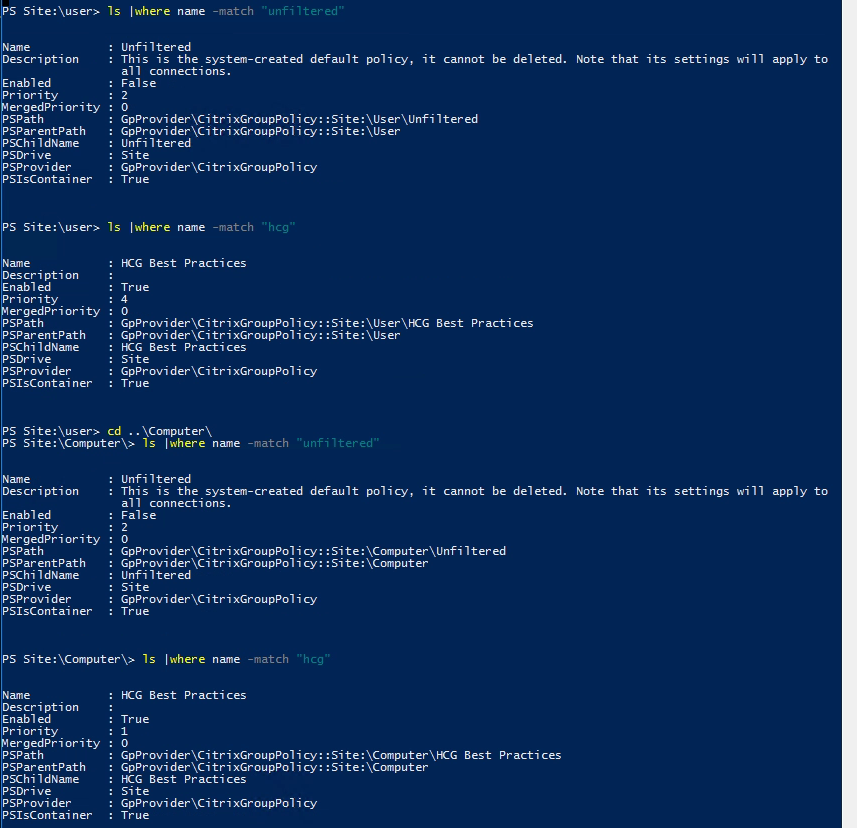
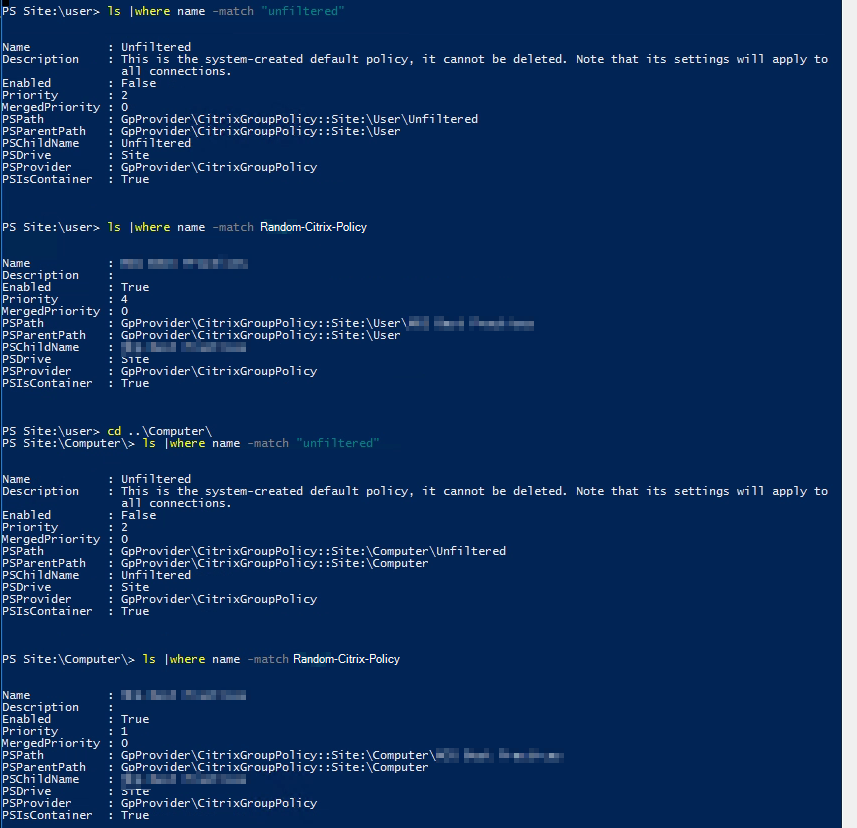
censored customer policy names

diff --git a/content/blog/2020/05/citrix-policy-migration.md b/content/blog/2020/05/citrix-policy-migration.md
@@ -118,8 +118,9 @@ foreach ($p in $userpolicies) {
 # Resolve Merge Discrepancies with Citrix Studio
 Citrix 7.xx Studio handles policy filtering in a different manner than 6.5. Separate user and computer policies no longer exist inside the GUI. Instead policies use filters that can be applied to users and computers. After an import, studio attempts to merge user policies with computer policies of the same name and applies filters for the various users and computers. Read more on this here https://support.citrix.com/article/CTX138509. 
 1.	Open Citrix studio and click on policies, If you added several policies, there is a good chance you will be presented with the below screen 
-    *	Note the name of the policy given in the error message. There is no priority interference with the “unfiltered” policy as indicated in the message. While this message is misleading, it does give us a valuable bit of information, the other policy mentioned is called “HCG Best Practices”. Make note of this policy name. 
+    *	Note the name of the policy given in the error message. There is no priority interference with the “unfiltered” policy as indicated in the message. While this message is misleading, it does give us a valuable bit of information, the other policy mentioned is called “Random-Citrix-Policy”. Make note of this policy name. 
     ![ctx_studio_error](/img/2020/05/ctx_studio_error.png)
+    * Please note: In these examples I am censoring the actual policy name, and using a made up name, 'Random-Citrix-Policy' for privacy. 
 
 2.	To resolve this. Return to your admin Powershell session and execute the below commands. Use the policy names from your environment in the 'where' filters. 
 
@@ -128,9 +129,9 @@ asnp Citrix*
 New-PSDrive Site -PSProvider CitrixGroupPolicy -Root \ -Controller localhost
 cd Site:\User
 ls  | where name -eq "unfiltered”
-ls  | where name -eq "HCG Best Practices”
+ls  | where name -eq "Random-Citrix-Policy”
 cd ..\computer
-ls  | where name -eq "HCG Best Practices”
+ls  | where name -eq "Random-Citrix-Policy”
 ls  | where name -eq "unfiltered”
  ```
 
@@ -138,9 +139,9 @@ ls  | where name -eq "unfiltered”
     ![merge_conflict_compare](/img/2020/05/merge_conflict_compare.png)
 
 4.  Note the priority on the same policy is different between the user and computer policies. The user policy priority is 4, and the computer is 1. We need to adjust one of these so that it matches the other. In this case I want the priority to be 4.
-Since ware already in the computer directory, we can change to the “HCG Best Practices" policy and execute the following commands 
-    * `cd ".\HCG Best Practices"` 
-    * If you wish to switch to the user policy run: `cd "..\user\HCG Best Practices"`
+Since ware already in the computer directory, we can change to the “Random-Citrix-Policy" policy and execute the following commands 
+    * `cd ".\Random-Citrix-Policy"` 
+    * If you wish to switch to the user policy run: `cd "..\user\Random-Citrix-Policy"`
     * Then run `Set-ItemProperty . -Name Priority -value 4`. Replace the '-value' property with the priority value that is appropriate to your environment.
 
 5.	Refresh the policy view in Citrix Studio. If you see your policies you are done with this step. Otherwise you may need to repeat this process for the next policy mentioned in the error message. 
